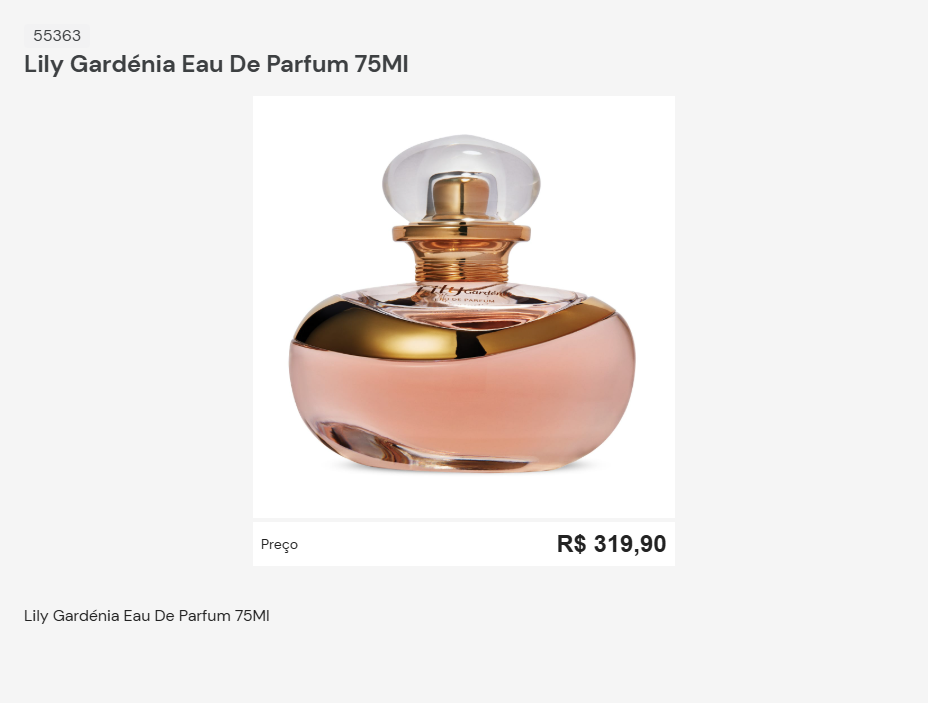
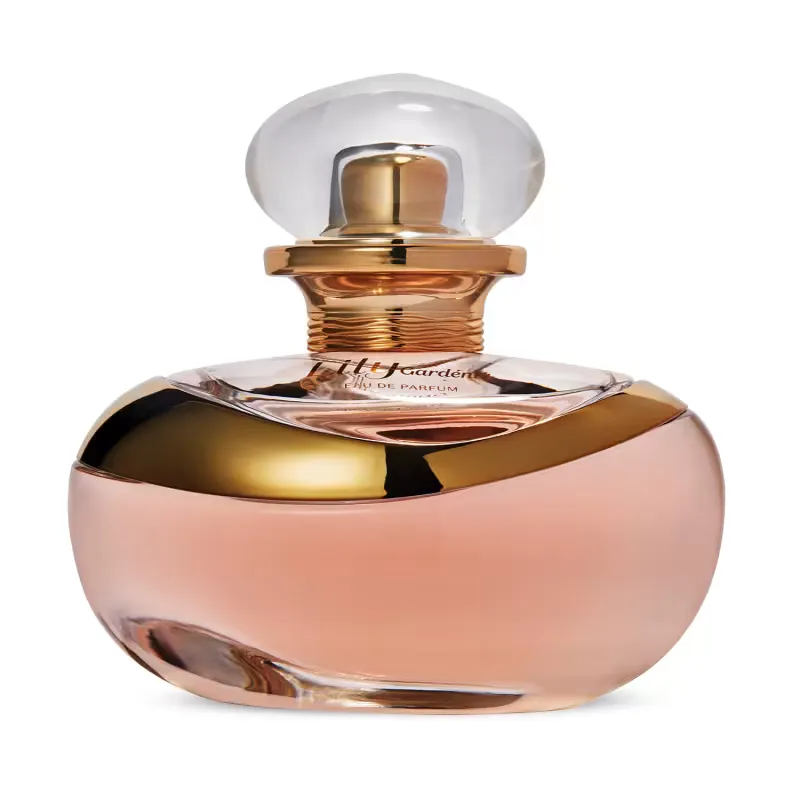
cadastro dos lilys e resize das imgs

diff --git a/index.html b/index.html
@@ -334,10 +334,10 @@
                         ` : ''}
                     </div>
                     
-                    <div class="w-full bg-gray-100 h-56 flex items-center justify-center overflow-hidden relative">
+                    <div class="w-full bg-white h-56 flex items-center justify-center overflow-hidden relative">
                         <img src="Imgs/${p.Codigo}.webp" 
                              alt="${p.Nome}" 
-                             class="object-cover w-full h-full group-hover:scale-105 transition-transform duration-300"
+                             class="object-cover h-full group-hover:scale-105 transition-transform duration-300"
                              onerror="this.onerror=null; this.src='Imgs/${p.Categoria}.webp'; this.setAttribute('data-fallback', 'true'); shadowFallback(this);">
                     </div>
 